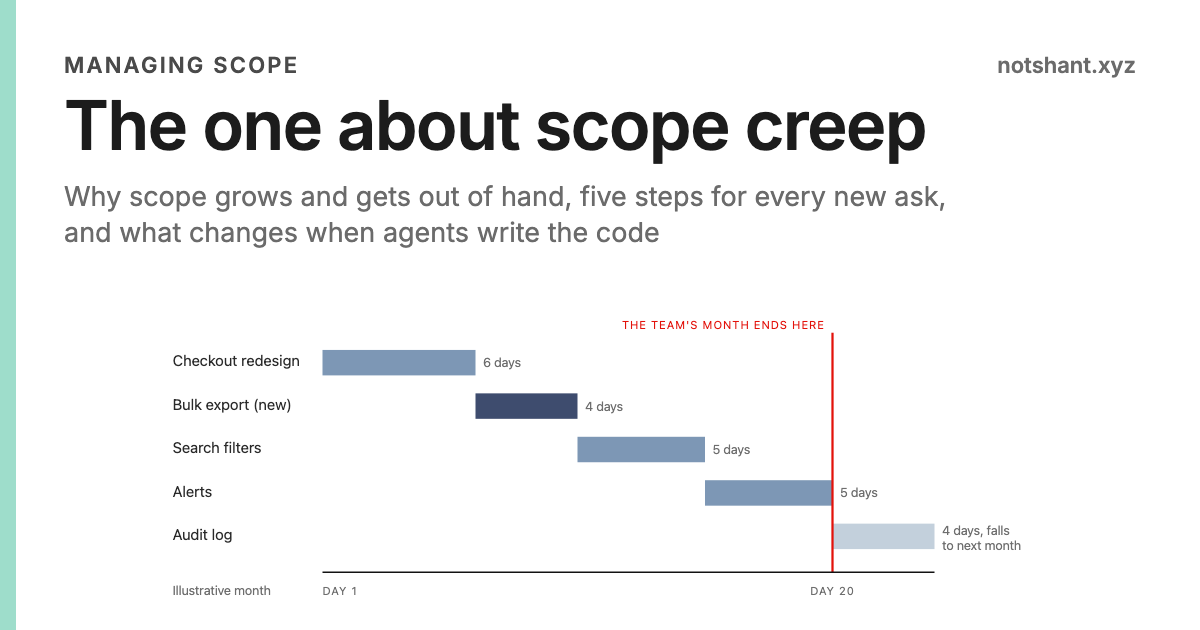
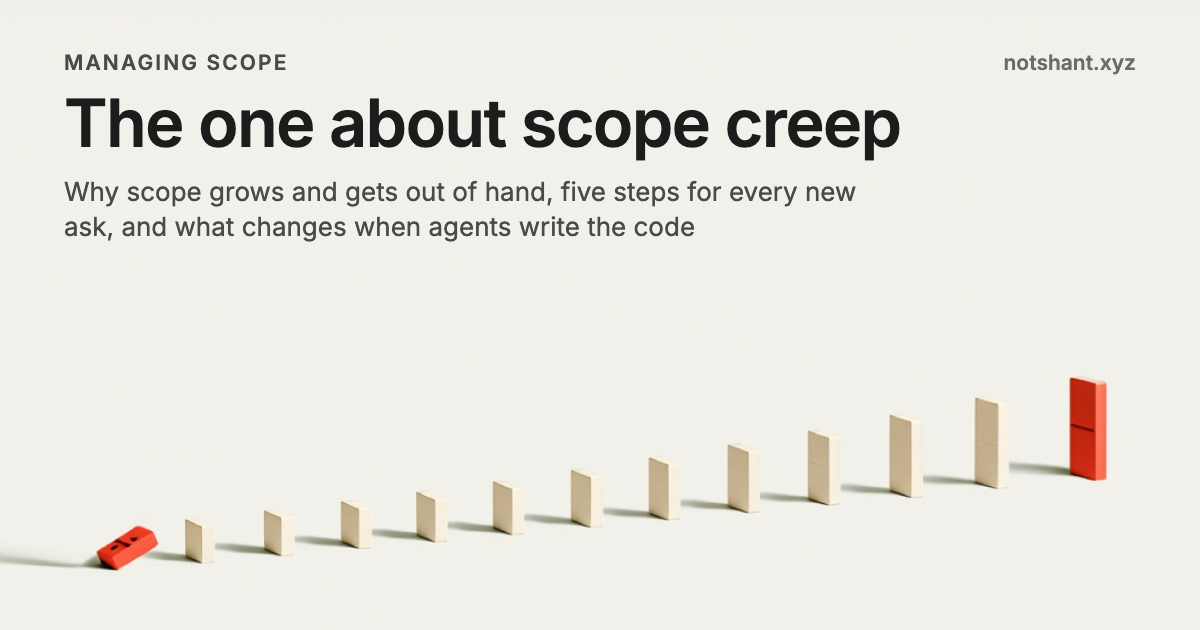
use the dominoes for the scope creep social card

diff --git a/_posts/2026-11-12-scope-creep.md b/_posts/2026-11-12-scope-creep.md
@@ -10,7 +10,7 @@ author:
   url: https://notshant.xyz/about
 image:
   path: /assets/scope-creep/social-card.png
-  alt: "The one about scope creep: why scope grows and gets out of hand, five steps for every new ask, and what changes when agents write the code, with a month's plan where a new ask pushes the last item past the end of the month"
+  alt: "The one about scope creep: why scope grows and gets out of hand, five steps for every new ask, and what changes when agents write the code, over a row of dominoes that grows from a small fallen one to a tall red one"
   width: 1200
   height: 630
 article_class: numbered
